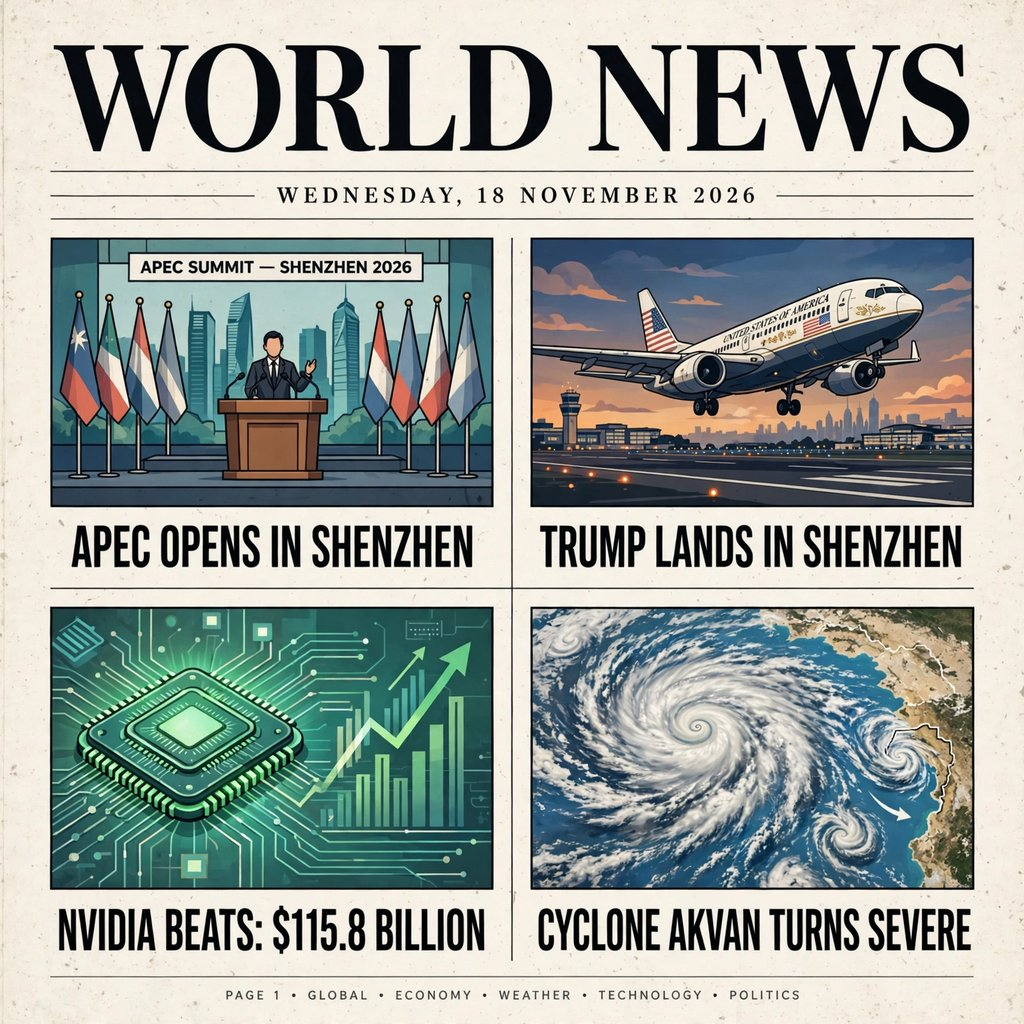
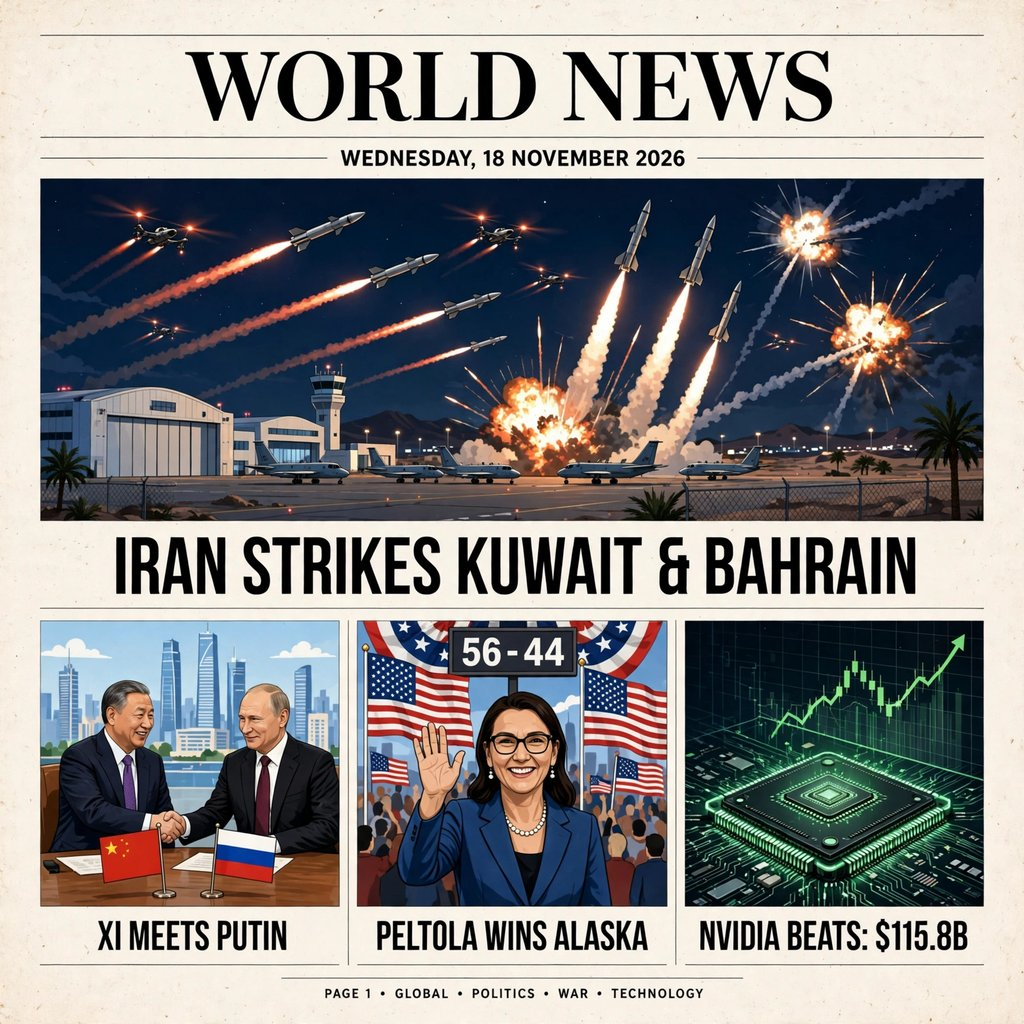
v2: rebuild from full-day 18 Nov research — fix APEC flag defect, 4 distinct stories

diff --git a/main.ts b/main.ts
@@ -1,14 +1,16 @@
-// news-image-20261118 entry (Node 22, standard library only).
+// news-image-20261118 entry v2 (Node 22, standard library only).
 //
 // The picture is a newspaper front page summing up the world's news of
-// Wednesday 18 November 2026: masthead "WORLD NEWS" dated that day, with
-// four illustrated panels — APEC OPENS IN SHENZHEN (a leader at a podium
-// with flags and the Shenzhen skyline), TRUMP LANDS IN SHENZHEN (the US
-// presidential plane touching down at dusk), NVIDIA BEATS: $115.8 BILLION
-// (a green chip with a rising chart), and CYCLONE AKVAN TURNS SEVERE (a
-// satellite view of the cyclone over the Bay of Bengal off India). The
-// image was generated for this entry, and the program below simply
-// delivers it to the grader's output directory.
+// Wednesday 18 November 2026 — the full day, re-researched on 19 Nov after
+// the day had ended everywhere: masthead "WORLD NEWS" dated that day, a
+// large hero panel plus three panels below — IRAN STRIKES KUWAIT & BAHRAIN
+// (missiles and drones over a Gulf air base at night), XI MEETS PUTIN
+// (the two leaders shaking hands at a table with Chinese and Russian
+// flags and the Shenzhen skyline), PELTOLA WINS ALASKA (the senator-elect
+// waving at a victory rally under a 56-44 scoreboard), and NVIDIA BEATS:
+// $115.8B (a green chip with a rising chart). The image was generated for
+// this entry, and the program below simply delivers it to the grader's
+// output directory.
 //
 // Run it the way the kit does:
 //   mkdir -p out && MAKEFUN_OUTPUT_DIR=out node main.ts

diff --git a/README.md b/README.md
@@ -1,4 +1,4 @@
-# news-image-20261118 — Wednesday 18 November 2026 in one image
+# news-image-20261118 — Wednesday 18 November 2026 in one image (v2)
 
 [![make.fun · news-image-20261118](https://make.fun/badge/news-image-20261118.svg)](https://make.fun/bounty/news-image-20261118?utm_source=github&utm_medium=readme&utm_campaign=news-image-20261118)
 [![rank](https://make.fun/badge/news-image-20261118/Arik2779/news-image-20261118/rank.svg)](https://make.fun/bounty/news-image-20261118/leaderboard?utm_source=github&utm_medium=readme&utm_campaign=news-image-20261118)
@@ -6,32 +6,43 @@
 
 Entry for [make.fun](https://make.fun) bounty "Sum up 18 November's world news in one image" — see the bounty page: https://make.fun/bounty/news-image-20261118.
 
+This is v2: a rebuild from a re-research of the FULL day of 18 November 2026
+(v1 was built at ~00:30 UTC on 18 Nov and could only verify the day's first
+~30 minutes). The four panels are the day's most consequential stories
+across four regions and fields — see `../RESEARCH-v2.md`.
+
 The program (`main.ts`, Node 22, standard library only) copies `entry.png`
 to `/output/entry.png`. The image is a newspaper front page for Wednesday
-18 November 2026: masthead "WORLD NEWS" with the date, and four illustrated
-panels, each verified against reporting from 18 November 2026 (see
-`../RESEARCH.md`):
+18 November 2026: masthead "WORLD NEWS" with the date, a large hero panel
+and three panels below, each verified against reporting from 18 November
+2026:
 
-1. **APEC OPENS IN SHENZHEN.** The 33rd APEC Economic Leaders' Meeting
-   runs 18–19 November in Shenzhen, China; President Xi Jinping delivers
-   the keynote at the APEC CEO Summit opening ceremony on the morning of
-   18 November and chairs the leaders' meeting.
-2. **TRUMP LANDS IN SHENZHEN.** President Donald Trump arrives in Shenzhen
-   late on Wednesday 18 November from Manila, the first sitting US
-   president to land in the city. His bilateral meeting with Xi and the
-   first-ever Trump–Xi–Putin trilateral are set for Thursday 19 November.
-3. **NVIDIA BEATS: $115.8 BILLION.** Nvidia reported Q3 revenue of $115.8
+1. **IRAN STRIKES KUWAIT & BAHRAIN.** Early on 18 November, Iran launched
+   strikes against Kuwait and Bahrain, saying it targeted Kuwait's Ali Al
+   Salem Air Base, which hosts US forces, after the US struck Qeshm Island
+   on 17 November. Kuwait engaged drones; Bahrain said it intercepted
+   Iranian attacks.
+2. **XI MEETS PUTIN IN SHENZHEN.** Chinese President Xi Jinping and
+   Russian President Vladimir Putin held bilateral talks in Shenzhen around
+   midday on 18 November, on the sidelines of the 33rd APEC summit. Both
+   addressed the APEC CEO Summit that day — Xi against trade protectionism,
+   Putin against Western sanctions. The first-ever Trump–Xi–Putin trilateral
+   is set for Thursday 19 November and had not happened yet.
+3. **PELTOLA WINS ALASKA.** Democrat Mary Peltola defeated two-term
+   Republican Sen. Dan Sullivan, giving Democrats a 56–44 Senate majority —
+   the last Senate race of the 2026 midterms to be called. Peltola took
+   ~50.1% of first-choice votes, clearing the 50% threshold outright, and
+   is the first Alaska Native elected to the US Senate. (AP call: Tuesday
+   evening US time, i.e. Wednesday 18 Nov UTC; reported across the 18 Nov
+   editions.)
+4. **NVIDIA BEATS: $115.8 BILLION.** Nvidia reported Q3 revenue of $115.8
    billion, up 103% year on year and above the $109.1B analyst estimate,
    with data centre revenue of $107.6B and Q4 guidance of $130B — its
    first results since Jensen Huang resigned as CEO on 12 November. The
    release came at 4:20 p.m. ET on 17 November, i.e. 04:20 WIB on
    18 November, so it was first reported in Asia on the morning of
    18 November.
-4. **CYCLONE AKVAN TURNS SEVERE.** Cyclone Akvan over the Bay of Bengal
-   becomes a Severe Cyclonic Storm around the morning of Wednesday
-   18 November, with winds of 100–110 km/h gusting to 120; landfall is
-   forecast for Friday 20 November on India's Andhra Pradesh coast.
 
 The image is a JPEG in a file named `entry.png`, which the rules allow
-(the format is told apart by its first bytes). 1024×1024 px, 264,474 bytes
+(the format is told apart by its first bytes). 1024×1024 px, 250,678 bytes
 (under the 1 MiB limit).
